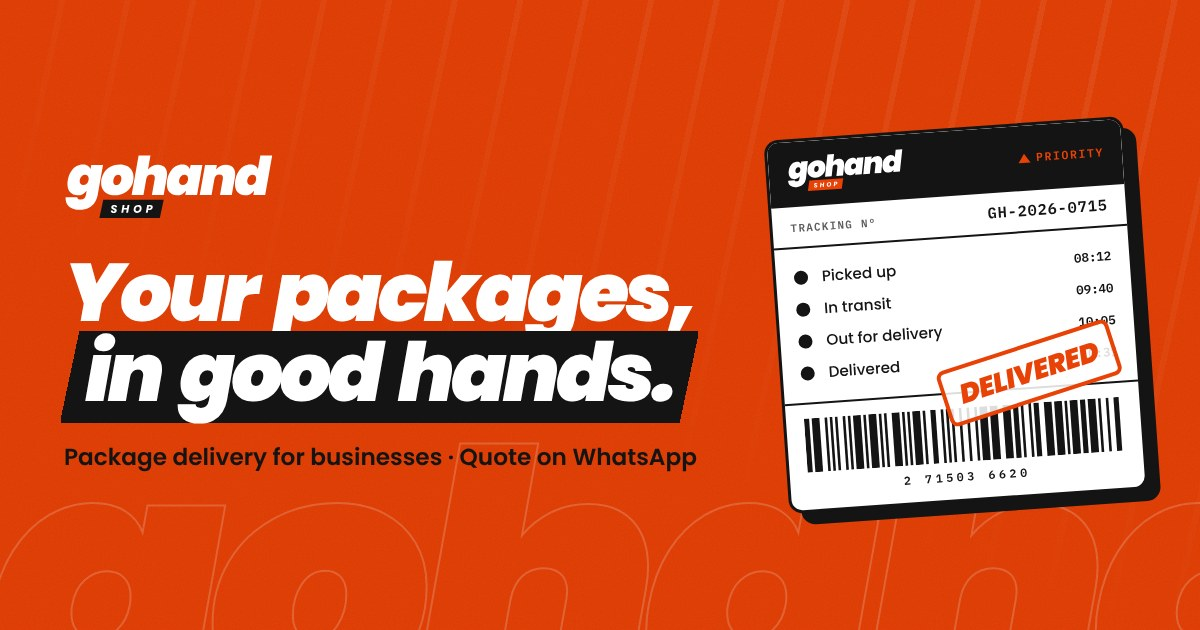
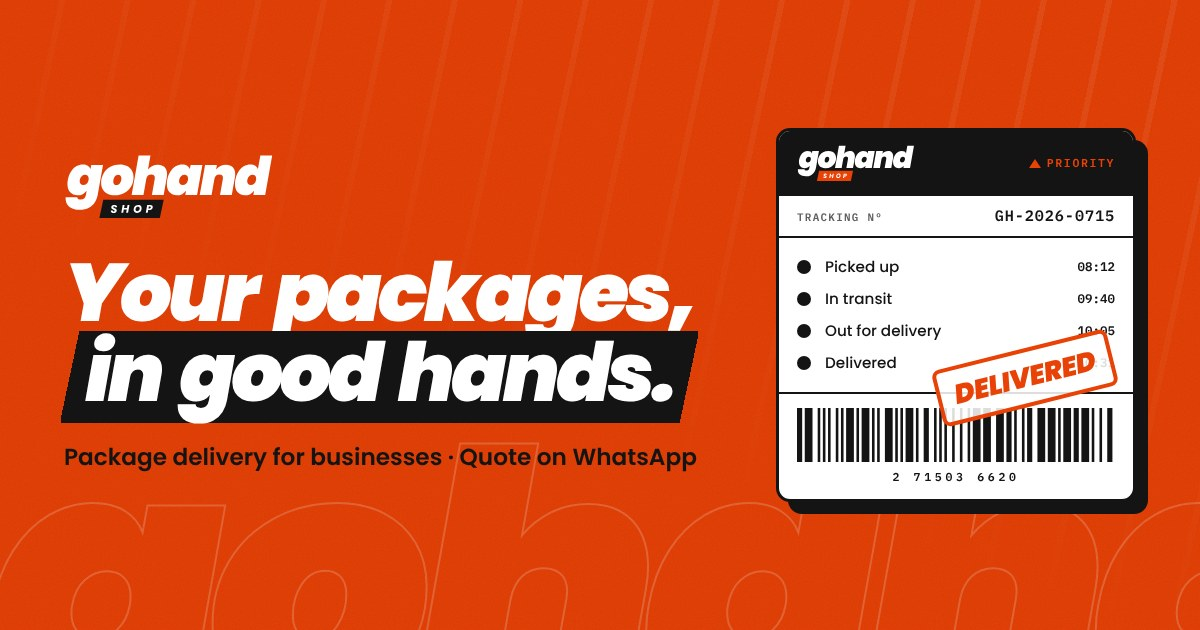
Straighten the top of the GoHand Shop site
The client liked the colors and the rest of the site but found the top
"crooked" and prefers a more traditional look. The service band under
the hero and the shipping label are no longer rotated, the band sits
flat at the end of the hero, and the link preview image shows the label
straight too. The slanted highlights and buttons stay: they come from
the "SHOP" tag in the logo.

Claude-Session: https://claude.ai/code/session_017uY8D4u12ToUcooQvZCSdb

Changed region(s): [[0.6167, 0.181, 0.9867, 0.8444]]

diff --git a/gohand-shop/assets/css/styles.css b/gohand-shop/assets/css/styles.css
@@ -363,7 +363,7 @@ main { overflow-x: clip; }
   overflow: hidden;
   background: var(--orange);
   color: var(--white);
-  padding: calc(var(--header-h) + clamp(28px, 6vw, 64px)) 0 clamp(96px, 12vw, 150px);
+  padding: calc(var(--header-h) + clamp(28px, 6vw, 64px)) 0 clamp(64px, 8vw, 110px);
 }
 .hero::after,
 .quote::after,
@@ -524,7 +524,6 @@ main { overflow-x: clip; }
   border: 3px solid var(--asphalt);
   border-radius: 14px;
   box-shadow: var(--shadow-hard);
-  transform: rotate(-3.5deg);
   overflow: hidden;
   animation: label-in 1.1s .35s var(--ease) both;
 }
@@ -681,13 +680,10 @@ main { overflow-x: clip; }
 .ticker {
   position: relative;
   z-index: 3;
-  margin: -46px -3vw 0;
   padding: 18px 0;
   background: var(--asphalt);
   color: var(--white);
-  transform: rotate(-2deg);
   overflow: hidden;
-  box-shadow: 0 10px 0 var(--white);
 }
 .ticker__track {
   display: flex;
@@ -733,7 +729,6 @@ main { overflow-x: clip; }
 .section-head--center .lead { margin-inline: auto; }
 
 /* ------------------------------------------------------------------ services */
-.services { padding-top: clamp(110px, 13vw, 170px); }
 
 .services__grid {
   display: grid;
@@ -1177,7 +1172,7 @@ main { overflow-x: clip; }
   font-style: italic;
   transition: background .2s, color .2s, transform .2s var(--ease);
 }
-.area__chips li:hover { background: var(--asphalt); color: var(--white); transform: rotate(-2deg); }
+.area__chips li:hover { background: var(--asphalt); color: var(--white); transform: translateY(-3px); }
 .area__chips .icon { width: 20px; height: 20px; color: var(--orange); }
 
 /* ------------------------------------------------------------------ faq */
@@ -1395,8 +1390,8 @@ a.contact__item:hover { transform: translate(-4px, -4px); box-shadow: 8px 8px 0 
   to { opacity: 1; transform: none; }
 }
 @keyframes label-in {
-  from { opacity: 0; transform: translateY(40px) rotate(4deg) scale(.95); }
-  to { opacity: 1; transform: rotate(-3.5deg); }
+  from { opacity: 0; transform: translateY(40px) scale(.96); }
+  to { opacity: 1; transform: none; }
 }
 @keyframes pin-pop {
   0% { transform: scale(1); }

diff --git a/gohand-shop/README.md b/gohand-shop/README.md
@@ -10,7 +10,7 @@ O cliente pediu um site para quem quiser informação, com WhatsApp para clicar 
 - **Topo laranja** com o título "Your packages, in good hands." / "Sua entrega em boas mãos.", botões de WhatsApp e de ligar,
   e uma **etiqueta de envio animada**: a caixinha percorre a rota, o rastreio vai mudando (coletado → em trânsito → saiu para entrega)
   e, quando chega, a etiqueta leva o carimbo "Delivered / Entregue".
-- **Faixa** inclinada com os serviços passando.
+- **Faixa** preta com os serviços passando.
 - **Serviços** (6 cartões). Cada um tem "Ask about this", que abre o WhatsApp já perguntando sobre aquele serviço.
 - **Por que a GoHand** (4 diferenciais, fundo preto).
 - **Como funciona** em 4 passos, desenhado como o rastreio de um pacote: os passos acendem um a um.
